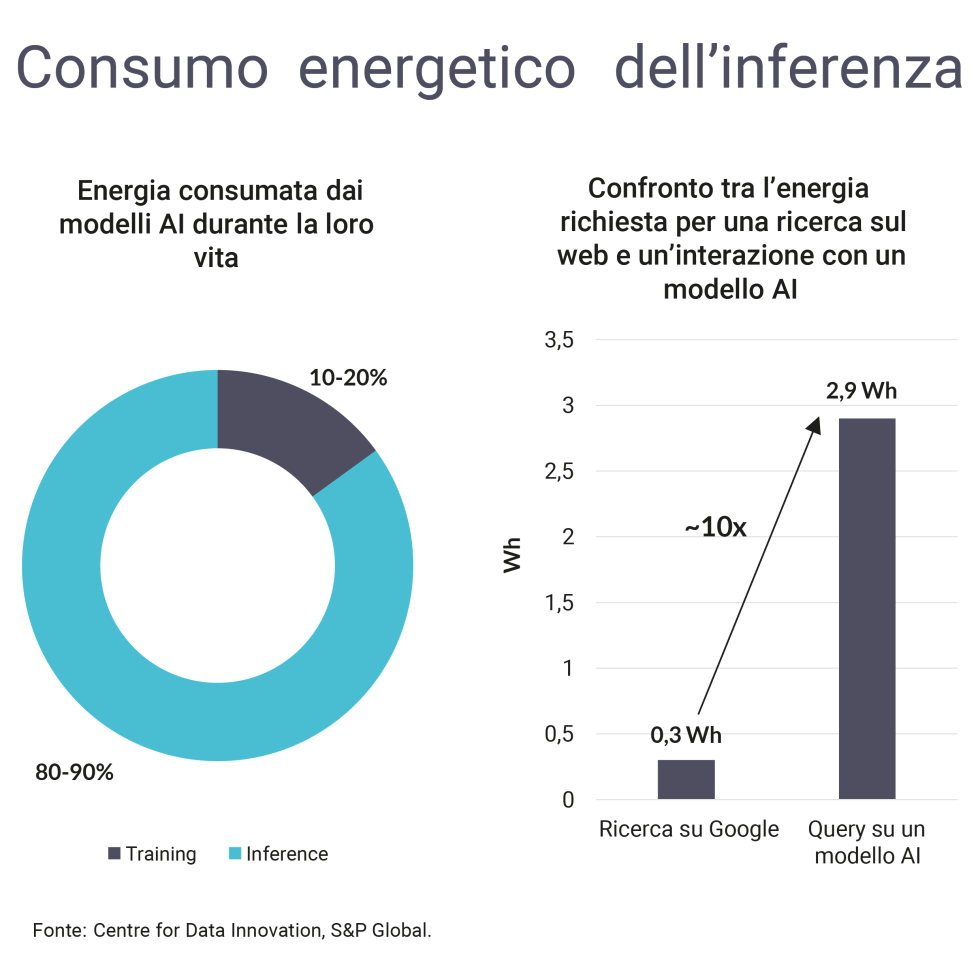
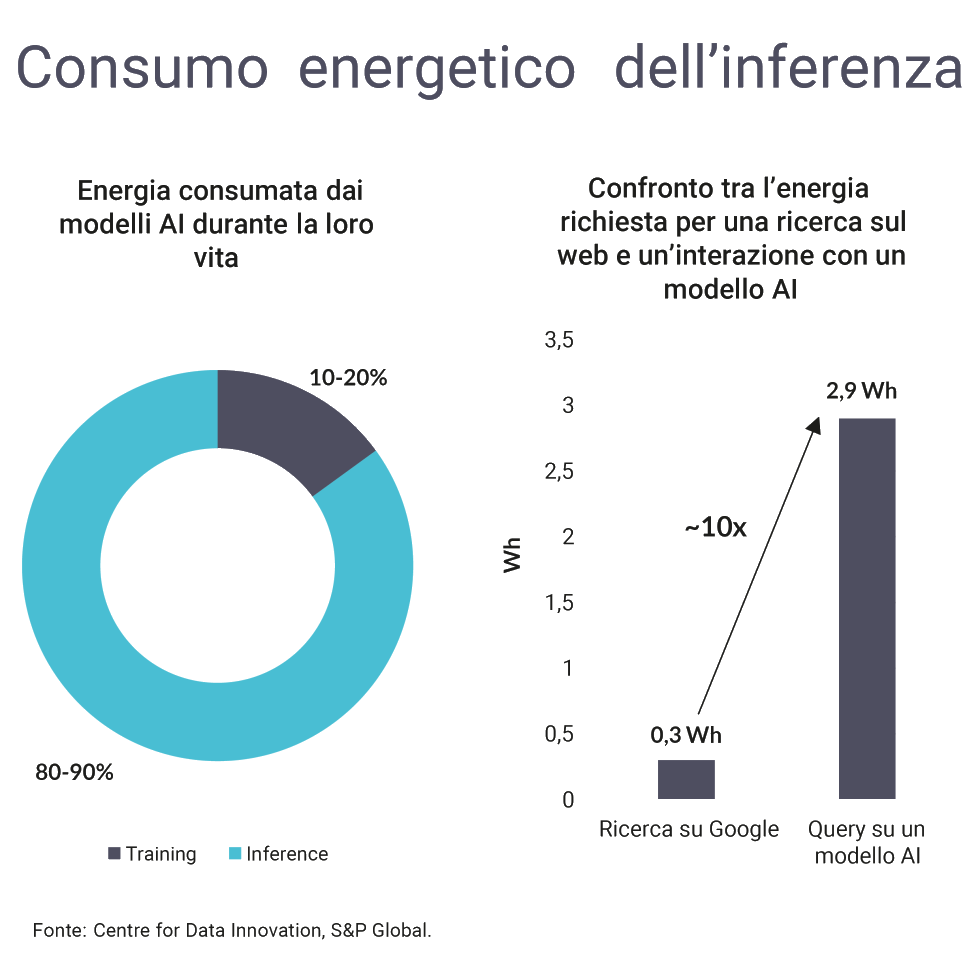
Modulo 02: update M2.5e with white background and refresh figures

diff --git a/module-02.html b/module-02.html
@@ -397,7 +397,7 @@ h1 {
           <p>Focus su risorse e impatto ambientale (requisito: <strong>Societal and environmental well-being</strong>):</p>
           <ul><li>la crescita delle capacità dei modelli è stata accompagnata da una crescita molto forte del fabbisogno computazionale;</li><li>questo si traduce in maggior consumo energetico e maggiore attenzione a efficienza, ottimizzazione e scelte infrastrutturali sostenibili;</li><li>aneddoto spesso citato: Sam Altman ha commentato in modo ironico che anche messaggi come &quot;grazie&quot; e &quot;per favore&quot; hanno un costo computazionale, evidenziando che ogni token elaborato ha un impatto operativo.</li></ul>
           <figure class="module-image"><img src="assets/chapt04_manageai_images/ai_compute_growth_resources.png" alt="Crescita del compute nei modelli AI e impatto sulle risorse" onclick="this.classList.toggle('zoomed')"><figcaption class="figure-caption">Figura M2.5c: crescita del fabbisogno computazionale e implicazioni su costi energetici/ambientali</figcaption></figure>
-          <figure class="module-image"><img src="assets/chapt04_manageai_images/tinnovamag_impatto_ambientale_ai.png" alt="Impatto ambientale dell&#x27;AI: sintesi grafica" onclick="this.classList.toggle('zoomed')"><figcaption class="figure-caption">Figura M2.5e: visualizzazione sintetica dell&#x27;impatto ambientale dell&#x27;AI (fonte: Tinnovamag)</figcaption></figure>
+          <figure class="module-image"><img src="assets/chapt04_manageai_images/tinnovamag_impatto_ambientale_ai_white.png" alt="Impatto ambientale dell&#x27;AI: sintesi grafica" onclick="this.classList.toggle('zoomed')"><figcaption class="figure-caption">Figura M2.5e: visualizzazione sintetica dell&#x27;impatto ambientale dell&#x27;AI (fonte: Tinnovamag)</figcaption></figure>
           <figure class="module-image"><img src="assets/chapt04_manageai_images/fairwater_datacenter_hwupgrade.jpg" alt="Datacenter Fairwater di Microsoft in Wisconsin" onclick="this.classList.toggle('zoomed')"><figcaption class="figure-caption">Figura M2.5f: Fairwater, infrastruttura datacenter AI di Microsoft (fonte: HWUpgrade)</figcaption></figure>
           <p>Per l&#x27;AI PM, questi 7 requisiti sono una check di governance concreta: aiutano a trasformare principi etici in criteri di progetto, controlli verificabili ed escalation tempestive.</p>
           <p>Per progetti a rischio elevato, è utile affiancare al ciclo tecnico un ciclo con focus su verifica, validazione, audit e responsabilità dei ruoli.</p>
